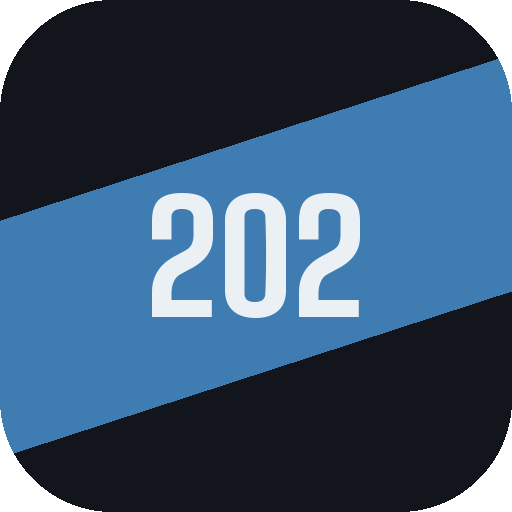
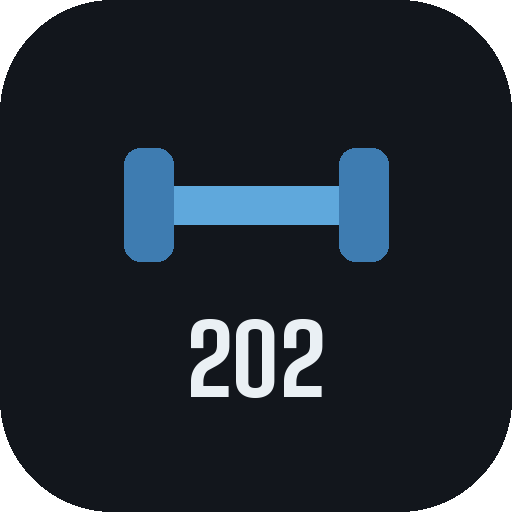
Add files via upload

diff --git a/service-worker.js b/service-worker.js
@@ -1,4 +1,4 @@
-const CACHE_NAME = "fitness202-v4";
+const CACHE_NAME = "fitness202-v5";
 const APP_SHELL = [
   "./",
   "./index.html",
@@ -35,6 +35,7 @@ self.addEventListener("fetch", (event) => {
     url.pathname.endsWith("index.html") ||
     url.pathname.endsWith("bundle.js") ||
     url.pathname.endsWith("styles.css") ||
+    url.pathname.endsWith("manifest.json") ||
     url.pathname.endsWith("/");
 
   if (isAppCode) {

diff --git a/styles.css b/styles.css
@@ -1,1 +1,1 @@
-*,:after,:before{--tw-border-spacing-x:0;--tw-border-spacing-y:0;--tw-translate-x:0;--tw-translate-y:0;--tw-rotate:0;--tw-skew-x:0;--tw-skew-y:0;--tw-scale-x:1;--tw-scale-y:1;--tw-pan-x: ;--tw-pan-y: ;--tw-pinch-zoom: ;--tw-scroll-snap-strictness:proximity;--tw-gradient-from-position: ;--tw-gradient-via-position: ;--tw-gradient-to-position: ;--tw-ordinal: ;--tw-slashed-zero: ;--tw-numeric-figure: ;--tw-numeric-spacing: ;--tw-numeric-fraction: ;--tw-ring-inset: ;--tw-ring-offset-width:0px;--tw-ring-offset-color:#fff;--tw-ring-color:rgba(59,130,246,.5);--tw-ring-offset-shadow:0 0 #0000;--tw-ring-shadow:0 0 #0000;--tw-shadow:0 0 #0000;--tw-shadow-colored:0 0 #0000;--tw-blur: ;--tw-brightness: ;--tw-contrast: ;--tw-grayscale: ;--tw-hue-rotate: ;--tw-invert: ;--tw-saturate: ;--tw-sepia: ;--tw-drop-shadow: ;--tw-backdrop-blur: ;--tw-backdrop-brightness: ;--tw-backdrop-contrast: ;--tw-backdrop-grayscale: ;--tw-backdrop-hue-rotate: ;--tw-backdrop-invert: ;--tw-backdrop-opacity: ;--tw-backdrop-saturate: ;--tw-backdrop-sepia: ;--tw-contain-size: ;--tw-contain-layout: ;--tw-contain-paint: ;--tw-contain-style: }::backdrop{--tw-border-spacing-x:0;--tw-border-spacing-y:0;--tw-translate-x:0;--tw-translate-y:0;--tw-rotate:0;--tw-skew-x:0;--tw-skew-y:0;--tw-scale-x:1;--tw-scale-y:1;--tw-pan-x: ;--tw-pan-y: ;--tw-pinch-zoom: ;--tw-scroll-snap-strictness:proximity;--tw-gradient-from-position: ;--tw-gradient-via-position: ;--tw-gradient-to-position: ;--tw-ordinal: ;--tw-slashed-zero: ;--tw-numeric-figure: ;--tw-numeric-spacing: ;--tw-numeric-fraction: ;--tw-ring-inset: ;--tw-ring-offset-width:0px;--tw-ring-offset-color:#fff;--tw-ring-color:rgba(59,130,246,.5);--tw-ring-offset-shadow:0 0 #0000;--tw-ring-shadow:0 0 #0000;--tw-shadow:0 0 #0000;--tw-shadow-colored:0 0 #0000;--tw-blur: ;--tw-brightness: ;--tw-contrast: ;--tw-grayscale: ;--tw-hue-rotate: ;--tw-invert: ;--tw-saturate: ;--tw-sepia: ;--tw-drop-shadow: ;--tw-backdrop-blur: ;--tw-backdrop-brightness: ;--tw-backdrop-contrast: ;--tw-backdrop-grayscale: ;--tw-backdrop-hue-rotate: ;--tw-backdrop-invert: ;--tw-backdrop-opacity: ;--tw-backdrop-saturate: ;--tw-backdrop-sepia: ;--tw-contain-size: ;--tw-contain-layout: ;--tw-contain-paint: ;--tw-contain-style: }/*! tailwindcss v3.4.13 | MIT License | https://tailwindcss.com*/*,:after,:before{box-sizing:border-box;border:0 solid #e5e7eb}:after,:before{--tw-content:""}:host,html{line-height:1.5;-webkit-text-size-adjust:100%;-moz-tab-size:4;-o-tab-size:4;tab-size:4;font-family:ui-sans-serif,system-ui,sans-serif,Apple Color Emoji,Segoe UI Emoji,Segoe UI Symbol,Noto Color Emoji;font-feature-settings:normal;font-variation-settings:normal;-webkit-tap-highlight-color:transparent}body{margin:0;line-height:inherit}hr{height:0;color:inherit;border-top-width:1px}abbr:where([title]){-webkit-text-decoration:underline dotted;text-decoration:underline dotted}h1,h2,h3,h4,h5,h6{font-size:inherit;font-weight:inherit}a{color:inherit;text-decoration:inherit}b,strong{font-weight:bolder}code,kbd,pre,samp{font-family:ui-monospace,SFMono-Regular,Menlo,Monaco,Consolas,Liberation Mono,Courier New,monospace;font-feature-settings:normal;font-variation-settings:normal;font-size:1em}small{font-size:80%}sub,sup{font-size:75%;line-height:0;position:relative;vertical-align:baseline}sub{bottom:-.25em}sup{top:-.5em}table{text-indent:0;border-color:inherit;border-collapse:collapse}button,input,optgroup,select,textarea{font-family:inherit;font-feature-settings:inherit;font-variation-settings:inherit;font-size:100%;font-weight:inherit;line-height:inherit;letter-spacing:inherit;color:inherit;margin:0;padding:0}button,select{text-transform:none}button,input:where([type=button]),input:where([type=reset]),input:where([type=submit]){-webkit-appearance:button;background-color:transparent;background-image:none}:-moz-focusring{outline:auto}:-moz-ui-invalid{box-shadow:none}progress{vertical-align:baseline}::-webkit-inner-spin-button,::-webkit-outer-spin-button{height:auto}[type=search]{-webkit-appearance:textfield;outline-offset:-2px}::-webkit-search-decoration{-webkit-appearance:none}::-webkit-file-upload-button{-webkit-appearance:button;font:inherit}summary{display:list-item}blockquote,dd,dl,figure,h1,h2,h3,h4,h5,h6,hr,p,pre{margin:0}fieldset{margin:0}fieldset,legend{padding:0}menu,ol,ul{list-style:none;margin:0;padding:0}dialog{padding:0}textarea{resize:vertical}input::-moz-placeholder,textarea::-moz-placeholder{opacity:1;color:#9ca3af}input::placeholder,textarea::placeholder{opacity:1;color:#9ca3af}[role=button],button{cursor:pointer}:disabled{cursor:default}audio,canvas,embed,iframe,img,object,svg,video{display:block;vertical-align:middle}img,video{max-width:100%;height:auto}[hidden]{display:none}*{-webkit-tap-highlight-color:transparent;box-sizing:border-box}button{cursor:pointer;font-family:inherit}button:not(:disabled){transition:transform .15s cubic-bezier(.34,1.56,.64,1),opacity .15s ease,background-color .2s ease,border-color .2s ease}button:not(:disabled):active{transform:scale(.96)}button:disabled{opacity:.5}input,select{transition:border-color .2s ease,box-shadow .2s ease}input:focus,select:focus{outline:none;box-shadow:0 0 0 2px rgba(95,168,220,.35)}::-webkit-scrollbar{width:0;height:0}.fixed{position:fixed}.absolute{position:absolute}.relative{position:relative}.sticky{position:sticky}.inset-0{inset:0}.-left-3{left:-.75rem}.-top-2{top:-.5rem}.bottom-0{bottom:0}.left-0{left:0}.left-1\/2{left:50%}.right-0{right:0}.top-0{top:0}.top-0\.5{top:.125rem}.z-10{z-index:10}.z-20{z-index:20}.z-30{z-index:30}.z-40{z-index:40}.z-50{z-index:50}.mx-auto{margin-left:auto;margin-right:auto}.mb-0\.5{margin-bottom:.125rem}.mb-1{margin-bottom:.25rem}.mb-1\.5{margin-bottom:.375rem}.mb-2{margin-bottom:.5rem}.mb-2\.5{margin-bottom:.625rem}.mb-3{margin-bottom:.75rem}.mb-4{margin-bottom:1rem}.mb-5{margin-bottom:1.25rem}.mb-6{margin-bottom:1.5rem}.mb-8{margin-bottom:2rem}.ml-auto{margin-left:auto}.mt-0\.5{margin-top:.125rem}.mt-1{margin-top:.25rem}.mt-1\.5{margin-top:.375rem}.mt-2{margin-top:.5rem}.mt-3{margin-top:.75rem}.mt-4{margin-top:1rem}.mt-6{margin-top:1.5rem}.block{display:block}.inline-block{display:inline-block}.flex{display:flex}.inline-flex{display:inline-flex}.grid{display:grid}.hidden{display:none}.aspect-square{aspect-ratio:1/1}.h-0\.5{height:.125rem}.h-1{height:.25rem}.h-2{height:.5rem}.h-5{height:1.25rem}.h-6{height:1.5rem}.h-9{height:2.25rem}.h-full{height:100%}.min-h-screen{min-height:100vh}.w-1{width:.25rem}.w-10{width:2.5rem}.w-12{width:3rem}.w-14{width:3.5rem}.w-16{width:4rem}.w-20{width:5rem}.w-5{width:1.25rem}.w-6{width:1.5rem}.w-9{width:2.25rem}.w-full{width:100%}.w-px{width:1px}.min-w-0{min-width:0}.max-w-\[80\%\]{max-width:80%}.max-w-md{max-width:28rem}.max-w-xs{max-width:20rem}.flex-1{flex:1 1 0%}.flex-shrink-0{flex-shrink:0}.transform{transform:translate(var(--tw-translate-x),var(--tw-translate-y)) rotate(var(--tw-rotate)) skewX(var(--tw-skew-x)) skewY(var(--tw-skew-y)) scaleX(var(--tw-scale-x)) scaleY(var(--tw-scale-y))}.grid-cols-2{grid-template-columns:repeat(2,minmax(0,1fr))}.grid-cols-3{grid-template-columns:repeat(3,minmax(0,1fr))}.grid-cols-4{grid-template-columns:repeat(4,minmax(0,1fr))}.grid-cols-5{grid-template-columns:repeat(5,minmax(0,1fr))}.grid-cols-7{grid-template-columns:repeat(7,minmax(0,1fr))}.flex-col{flex-direction:column}.flex-wrap{flex-wrap:wrap}.items-end{align-items:flex-end}.items-center{align-items:center}.items-baseline{align-items:baseline}.justify-start{justify-content:flex-start}.justify-end{justify-content:flex-end}.justify-center{justify-content:center}.justify-between{justify-content:space-between}.gap-1{gap:.25rem}.gap-1\.5{gap:.375rem}.gap-2{gap:.5rem}.gap-3{gap:.75rem}.space-y-1>:not([hidden])~:not([hidden]){--tw-space-y-reverse:0;margin-top:calc(.25rem*(1 - var(--tw-space-y-reverse)));margin-bottom:calc(.25rem*var(--tw-space-y-reverse))}.space-y-1\.5>:not([hidden])~:not([hidden]){--tw-space-y-reverse:0;margin-top:calc(.375rem*(1 - var(--tw-space-y-reverse)));margin-bottom:calc(.375rem*var(--tw-space-y-reverse))}.space-y-2>:not([hidden])~:not([hidden]){--tw-space-y-reverse:0;margin-top:calc(.5rem*(1 - var(--tw-space-y-reverse)));margin-bottom:calc(.5rem*var(--tw-space-y-reverse))}.overflow-hidden{overflow:hidden}.overflow-y-auto{overflow-y:auto}.rounded{border-radius:.25rem}.rounded-full{border-radius:9999px}.rounded-lg{border-radius:.5rem}.rounded-md{border-radius:.375rem}.border{border-width:1px}.border-2{border-width:2px}.border-b{border-bottom-width:1px}.border-dashed{border-style:dashed}.p-1{padding:.25rem}.p-2{padding:.5rem}.p-2\.5{padding:.625rem}.p-3{padding:.75rem}.p-4{padding:1rem}.p-5{padding:1.25rem}.p-6{padding:1.5rem}.px-1{padding-left:.25rem;padding-right:.25rem}.px-11{padding-left:2.75rem;padding-right:2.75rem}.px-2{padding-left:.5rem;padding-right:.5rem}.px-2\.5{padding-left:.625rem;padding-right:.625rem}.px-3{padding-left:.75rem;padding-right:.75rem}.px-4{padding-left:1rem;padding-right:1rem}.px-5{padding-left:1.25rem;padding-right:1.25rem}.py-0\.5{padding-top:.125rem;padding-bottom:.125rem}.py-1{padding-top:.25rem;padding-bottom:.25rem}.py-1\.5{padding-top:.375rem;padding-bottom:.375rem}.py-10{padding-top:2.5rem;padding-bottom:2.5rem}.py-2{padding-top:.5rem;padding-bottom:.5rem}.py-2\.5{padding-top:.625rem;padding-bottom:.625rem}.py-3{padding-top:.75rem;padding-bottom:.75rem}.py-3\.5{padding-top:.875rem;padding-bottom:.875rem}.py-6{padding-top:1.5rem;padding-bottom:1.5rem}.py-8{padding-top:2rem;padding-bottom:2rem}.pb-10{padding-bottom:2.5rem}.pb-24{padding-bottom:6rem}.pb-3{padding-bottom:.75rem}.pb-4{padding-bottom:1rem}.pr-1{padding-right:.25rem}.pt-3{padding-top:.75rem}.pt-4{padding-top:1rem}.pt-5{padding-top:1.25rem}.text-left{text-align:left}.text-center{text-align:center}.font-mono{font-family:ui-monospace,SFMono-Regular,Menlo,Monaco,Consolas,Liberation Mono,Courier New,monospace}.text-2xl{font-size:1.5rem;line-height:2rem}.text-3xl{font-size:1.875rem;line-height:2.25rem}.text-4xl{font-size:2.25rem;line-height:2.5rem}.text-6xl{font-size:3.75rem;line-height:1}.text-7xl{font-size:4.5rem;line-height:1}.text-\[10px\]{font-size:10px}.text-\[11px\]{font-size:11px}.text-\[8px\]{font-size:8px}.text-\[9px\]{font-size:9px}.text-lg{font-size:1.125rem;line-height:1.75rem}.text-sm{font-size:.875rem;line-height:1.25rem}.text-xl{font-size:1.25rem;line-height:1.75rem}.text-xs{font-size:.75rem;line-height:1rem}.font-semibold{font-weight:600}.uppercase{text-transform:uppercase}.leading-tight{line-height:1.25}.tracking-\[0\.12em\]{letter-spacing:.12em}.tracking-\[0\.15em\]{letter-spacing:.15em}.tracking-\[0\.1em\]{letter-spacing:.1em}.tracking-wide{letter-spacing:.025em}.tracking-widest{letter-spacing:.1em}.line-through{text-decoration-line:line-through}.opacity-90{opacity:.9}.shadow-lg{--tw-shadow:0 10px 15px -3px rgba(0,0,0,.1),0 4px 6px -4px rgba(0,0,0,.1);--tw-shadow-colored:0 10px 15px -3px var(--tw-shadow-color),0 4px 6px -4px var(--tw-shadow-color);box-shadow:var(--tw-ring-offset-shadow,0 0 #0000),var(--tw-ring-shadow,0 0 #0000),var(--tw-shadow)}.outline-none{outline:2px solid transparent;outline-offset:2px}.filter{filter:var(--tw-blur) var(--tw-brightness) var(--tw-contrast) var(--tw-grayscale) var(--tw-hue-rotate) var(--tw-invert) var(--tw-saturate) var(--tw-sepia) var(--tw-drop-shadow)}.transition-all{transition-property:all;transition-timing-function:cubic-bezier(.4,0,.2,1);transition-duration:.15s}.ease-in-out{transition-timing-function:cubic-bezier(.4,0,.2,1)}@keyframes screenIn{0%{opacity:0;transform:translateY(8px)}to{opacity:1;transform:translateY(0)}}.screen-enter{animation:screenIn .32s cubic-bezier(.16,1,.3,1)}@keyframes toastIn{0%{opacity:0;transform:translate(-50%,16px) scale(.96)}to{opacity:1;transform:translate(-50%) scale(1)}}.toast-enter{animation:toastIn .3s cubic-bezier(.34,1.56,.64,1)}@keyframes pulseTape{0%,to{opacity:.45;transform:scaleX(.85)}50%{opacity:1;transform:scaleX(1)}}.pulse-tape{animation:pulseTape 1.3s ease-in-out infinite}@keyframes spin{to{transform:rotate(1turn)}}.spin-slow{animation:spin 1.1s linear infinite}@keyframes popIn{0%{opacity:0;transform:scale(.8)}to{opacity:1;transform:scale(1)}}.pop-in{animation:popIn .35s cubic-bezier(.34,1.56,.64,1)}@keyframes shimmer{0%{background-position:-300px 0}to{background-position:300px 0}}.skeleton{background:linear-gradient(90deg,#1b222a 25%,#252f39 37%,#1b222a 63%);background-size:400px 100%;animation:shimmer 1.4s ease-in-out infinite}.collapse-grid{display:grid;grid-template-rows:0fr;transition:grid-template-rows .32s cubic-bezier(.16,1,.3,1)}.collapse-grid.is-open{grid-template-rows:1fr}.collapse-inner{overflow:hidden;min-height:0}.chevron-rotate{transition:transform .28s cubic-bezier(.16,1,.3,1);display:inline-flex}.chevron-rotate.is-open{transform:rotate(180deg)}.nav-indicator{transition:left .32s cubic-bezier(.34,1.56,.64,1)}.gauge-fill{transition:width .6s cubic-bezier(.16,1,.3,1)}.press-card{transition:transform .15s ease,border-color .2s ease}.press-card:active{transform:scale(.98)}input[type=range]{-webkit-appearance:none;-moz-appearance:none;appearance:none;width:100%;height:8px;border-radius:999px;background:#252f39;outline:none}input[type=range]::-webkit-slider-thumb{-webkit-appearance:none;width:34px;height:34px;border-radius:50%;background:var(--thumb-color,#e08a3c);border:3px solid #12161c;box-shadow:0 3px 10px rgba(0,0,0,.5);cursor:pointer}input[type=range]::-moz-range-thumb{width:34px;height:34px;border-radius:50%;background:var(--thumb-color,#e08a3c);border:3px solid #12161c;box-shadow:0 3px 10px rgba(0,0,0,.5);cursor:pointer}input[type=range]::-moz-range-track{background:#252f39;height:8px;border-radius:999px}.photo-tile{aspect-ratio:3/4;-o-object-fit:cover;object-fit:cover}
+*,:after,:before{--tw-border-spacing-x:0;--tw-border-spacing-y:0;--tw-translate-x:0;--tw-translate-y:0;--tw-rotate:0;--tw-skew-x:0;--tw-skew-y:0;--tw-scale-x:1;--tw-scale-y:1;--tw-pan-x: ;--tw-pan-y: ;--tw-pinch-zoom: ;--tw-scroll-snap-strictness:proximity;--tw-gradient-from-position: ;--tw-gradient-via-position: ;--tw-gradient-to-position: ;--tw-ordinal: ;--tw-slashed-zero: ;--tw-numeric-figure: ;--tw-numeric-spacing: ;--tw-numeric-fraction: ;--tw-ring-inset: ;--tw-ring-offset-width:0px;--tw-ring-offset-color:#fff;--tw-ring-color:rgba(59,130,246,.5);--tw-ring-offset-shadow:0 0 #0000;--tw-ring-shadow:0 0 #0000;--tw-shadow:0 0 #0000;--tw-shadow-colored:0 0 #0000;--tw-blur: ;--tw-brightness: ;--tw-contrast: ;--tw-grayscale: ;--tw-hue-rotate: ;--tw-invert: ;--tw-saturate: ;--tw-sepia: ;--tw-drop-shadow: ;--tw-backdrop-blur: ;--tw-backdrop-brightness: ;--tw-backdrop-contrast: ;--tw-backdrop-grayscale: ;--tw-backdrop-hue-rotate: ;--tw-backdrop-invert: ;--tw-backdrop-opacity: ;--tw-backdrop-saturate: ;--tw-backdrop-sepia: ;--tw-contain-size: ;--tw-contain-layout: ;--tw-contain-paint: ;--tw-contain-style: }::backdrop{--tw-border-spacing-x:0;--tw-border-spacing-y:0;--tw-translate-x:0;--tw-translate-y:0;--tw-rotate:0;--tw-skew-x:0;--tw-skew-y:0;--tw-scale-x:1;--tw-scale-y:1;--tw-pan-x: ;--tw-pan-y: ;--tw-pinch-zoom: ;--tw-scroll-snap-strictness:proximity;--tw-gradient-from-position: ;--tw-gradient-via-position: ;--tw-gradient-to-position: ;--tw-ordinal: ;--tw-slashed-zero: ;--tw-numeric-figure: ;--tw-numeric-spacing: ;--tw-numeric-fraction: ;--tw-ring-inset: ;--tw-ring-offset-width:0px;--tw-ring-offset-color:#fff;--tw-ring-color:rgba(59,130,246,.5);--tw-ring-offset-shadow:0 0 #0000;--tw-ring-shadow:0 0 #0000;--tw-shadow:0 0 #0000;--tw-shadow-colored:0 0 #0000;--tw-blur: ;--tw-brightness: ;--tw-contrast: ;--tw-grayscale: ;--tw-hue-rotate: ;--tw-invert: ;--tw-saturate: ;--tw-sepia: ;--tw-drop-shadow: ;--tw-backdrop-blur: ;--tw-backdrop-brightness: ;--tw-backdrop-contrast: ;--tw-backdrop-grayscale: ;--tw-backdrop-hue-rotate: ;--tw-backdrop-invert: ;--tw-backdrop-opacity: ;--tw-backdrop-saturate: ;--tw-backdrop-sepia: ;--tw-contain-size: ;--tw-contain-layout: ;--tw-contain-paint: ;--tw-contain-style: }/*! tailwindcss v3.4.13 | MIT License | https://tailwindcss.com*/*,:after,:before{box-sizing:border-box;border:0 solid #e5e7eb}:after,:before{--tw-content:""}:host,html{line-height:1.5;-webkit-text-size-adjust:100%;-moz-tab-size:4;-o-tab-size:4;tab-size:4;font-family:ui-sans-serif,system-ui,sans-serif,Apple Color Emoji,Segoe UI Emoji,Segoe UI Symbol,Noto Color Emoji;font-feature-settings:normal;font-variation-settings:normal;-webkit-tap-highlight-color:transparent}body{margin:0;line-height:inherit}hr{height:0;color:inherit;border-top-width:1px}abbr:where([title]){-webkit-text-decoration:underline dotted;text-decoration:underline dotted}h1,h2,h3,h4,h5,h6{font-size:inherit;font-weight:inherit}a{color:inherit;text-decoration:inherit}b,strong{font-weight:bolder}code,kbd,pre,samp{font-family:ui-monospace,SFMono-Regular,Menlo,Monaco,Consolas,Liberation Mono,Courier New,monospace;font-feature-settings:normal;font-variation-settings:normal;font-size:1em}small{font-size:80%}sub,sup{font-size:75%;line-height:0;position:relative;vertical-align:baseline}sub{bottom:-.25em}sup{top:-.5em}table{text-indent:0;border-color:inherit;border-collapse:collapse}button,input,optgroup,select,textarea{font-family:inherit;font-feature-settings:inherit;font-variation-settings:inherit;font-size:100%;font-weight:inherit;line-height:inherit;letter-spacing:inherit;color:inherit;margin:0;padding:0}button,select{text-transform:none}button,input:where([type=button]),input:where([type=reset]),input:where([type=submit]){-webkit-appearance:button;background-color:transparent;background-image:none}:-moz-focusring{outline:auto}:-moz-ui-invalid{box-shadow:none}progress{vertical-align:baseline}::-webkit-inner-spin-button,::-webkit-outer-spin-button{height:auto}[type=search]{-webkit-appearance:textfield;outline-offset:-2px}::-webkit-search-decoration{-webkit-appearance:none}::-webkit-file-upload-button{-webkit-appearance:button;font:inherit}summary{display:list-item}blockquote,dd,dl,figure,h1,h2,h3,h4,h5,h6,hr,p,pre{margin:0}fieldset{margin:0}fieldset,legend{padding:0}menu,ol,ul{list-style:none;margin:0;padding:0}dialog{padding:0}textarea{resize:vertical}input::-moz-placeholder,textarea::-moz-placeholder{opacity:1;color:#9ca3af}input::placeholder,textarea::placeholder{opacity:1;color:#9ca3af}[role=button],button{cursor:pointer}:disabled{cursor:default}audio,canvas,embed,iframe,img,object,svg,video{display:block;vertical-align:middle}img,video{max-width:100%;height:auto}[hidden]{display:none}*{-webkit-tap-highlight-color:transparent;box-sizing:border-box}button{cursor:pointer;font-family:inherit}button:not(:disabled){transition:transform .15s cubic-bezier(.34,1.56,.64,1),opacity .15s ease,background-color .2s ease,border-color .2s ease}button:not(:disabled):active{transform:scale(.96)}button:disabled{opacity:.5}input,select{transition:border-color .2s ease,box-shadow .2s ease}input:focus,select:focus{outline:none;box-shadow:0 0 0 2px rgba(95,168,220,.35)}::-webkit-scrollbar{width:0;height:0}.static{position:static}.fixed{position:fixed}.absolute{position:absolute}.relative{position:relative}.sticky{position:sticky}.inset-0{inset:0}.-left-3{left:-.75rem}.-top-2{top:-.5rem}.bottom-0{bottom:0}.left-0{left:0}.left-1\/2{left:50%}.right-0{right:0}.top-0{top:0}.top-0\.5{top:.125rem}.z-10{z-index:10}.z-20{z-index:20}.z-30{z-index:30}.z-40{z-index:40}.z-50{z-index:50}.mx-auto{margin-left:auto;margin-right:auto}.mb-0\.5{margin-bottom:.125rem}.mb-1{margin-bottom:.25rem}.mb-1\.5{margin-bottom:.375rem}.mb-2{margin-bottom:.5rem}.mb-2\.5{margin-bottom:.625rem}.mb-3{margin-bottom:.75rem}.mb-4{margin-bottom:1rem}.mb-5{margin-bottom:1.25rem}.mb-6{margin-bottom:1.5rem}.mb-8{margin-bottom:2rem}.ml-auto{margin-left:auto}.mt-0\.5{margin-top:.125rem}.mt-1{margin-top:.25rem}.mt-1\.5{margin-top:.375rem}.mt-2{margin-top:.5rem}.mt-3{margin-top:.75rem}.mt-4{margin-top:1rem}.mt-6{margin-top:1.5rem}.block{display:block}.inline-block{display:inline-block}.flex{display:flex}.inline-flex{display:inline-flex}.grid{display:grid}.hidden{display:none}.aspect-square{aspect-ratio:1/1}.h-0\.5{height:.125rem}.h-1{height:.25rem}.h-1\.5{height:.375rem}.h-2{height:.5rem}.h-5{height:1.25rem}.h-6{height:1.5rem}.h-9{height:2.25rem}.h-auto{height:auto}.h-full{height:100%}.min-h-screen{min-height:100vh}.w-1{width:.25rem}.w-1\.5{width:.375rem}.w-10{width:2.5rem}.w-11{width:2.75rem}.w-14{width:3.5rem}.w-16{width:4rem}.w-20{width:5rem}.w-5{width:1.25rem}.w-6{width:1.5rem}.w-9{width:2.25rem}.w-full{width:100%}.w-px{width:1px}.min-w-0{min-width:0}.max-w-\[80\%\]{max-width:80%}.max-w-md{max-width:28rem}.max-w-xs{max-width:20rem}.flex-1{flex:1 1 0%}.flex-shrink-0{flex-shrink:0}.transform{transform:translate(var(--tw-translate-x),var(--tw-translate-y)) rotate(var(--tw-rotate)) skewX(var(--tw-skew-x)) skewY(var(--tw-skew-y)) scaleX(var(--tw-scale-x)) scaleY(var(--tw-scale-y))}.grid-cols-2{grid-template-columns:repeat(2,minmax(0,1fr))}.grid-cols-3{grid-template-columns:repeat(3,minmax(0,1fr))}.grid-cols-4{grid-template-columns:repeat(4,minmax(0,1fr))}.grid-cols-5{grid-template-columns:repeat(5,minmax(0,1fr))}.grid-cols-7{grid-template-columns:repeat(7,minmax(0,1fr))}.flex-col{flex-direction:column}.flex-wrap{flex-wrap:wrap}.items-end{align-items:flex-end}.items-center{align-items:center}.items-baseline{align-items:baseline}.justify-start{justify-content:flex-start}.justify-end{justify-content:flex-end}.justify-center{justify-content:center}.justify-between{justify-content:space-between}.gap-0\.5{gap:.125rem}.gap-1{gap:.25rem}.gap-1\.5{gap:.375rem}.gap-2{gap:.5rem}.gap-2\.5{gap:.625rem}.gap-3{gap:.75rem}.space-y-1>:not([hidden])~:not([hidden]){--tw-space-y-reverse:0;margin-top:calc(.25rem*(1 - var(--tw-space-y-reverse)));margin-bottom:calc(.25rem*var(--tw-space-y-reverse))}.space-y-1\.5>:not([hidden])~:not([hidden]){--tw-space-y-reverse:0;margin-top:calc(.375rem*(1 - var(--tw-space-y-reverse)));margin-bottom:calc(.375rem*var(--tw-space-y-reverse))}.space-y-2>:not([hidden])~:not([hidden]){--tw-space-y-reverse:0;margin-top:calc(.5rem*(1 - var(--tw-space-y-reverse)));margin-bottom:calc(.5rem*var(--tw-space-y-reverse))}.overflow-hidden{overflow:hidden}.overflow-y-auto{overflow-y:auto}.rounded{border-radius:.25rem}.rounded-full{border-radius:9999px}.rounded-lg{border-radius:.5rem}.rounded-md{border-radius:.375rem}.border{border-width:1px}.border-2{border-width:2px}.border-b{border-bottom-width:1px}.border-dashed{border-style:dashed}.p-1{padding:.25rem}.p-2{padding:.5rem}.p-2\.5{padding:.625rem}.p-3{padding:.75rem}.p-4{padding:1rem}.p-5{padding:1.25rem}.p-6{padding:1.5rem}.px-1{padding-left:.25rem;padding-right:.25rem}.px-11{padding-left:2.75rem;padding-right:2.75rem}.px-2{padding-left:.5rem;padding-right:.5rem}.px-2\.5{padding-left:.625rem;padding-right:.625rem}.px-3{padding-left:.75rem;padding-right:.75rem}.px-4{padding-left:1rem;padding-right:1rem}.px-5{padding-left:1.25rem;padding-right:1.25rem}.py-0\.5{padding-top:.125rem;padding-bottom:.125rem}.py-1{padding-top:.25rem;padding-bottom:.25rem}.py-1\.5{padding-top:.375rem;padding-bottom:.375rem}.py-10{padding-top:2.5rem;padding-bottom:2.5rem}.py-2{padding-top:.5rem;padding-bottom:.5rem}.py-2\.5{padding-top:.625rem;padding-bottom:.625rem}.py-3{padding-top:.75rem;padding-bottom:.75rem}.py-3\.5{padding-top:.875rem;padding-bottom:.875rem}.py-6{padding-top:1.5rem;padding-bottom:1.5rem}.py-8{padding-top:2rem;padding-bottom:2rem}.pb-10{padding-bottom:2.5rem}.pb-24{padding-bottom:6rem}.pb-3{padding-bottom:.75rem}.pb-4{padding-bottom:1rem}.pr-1{padding-right:.25rem}.pt-3{padding-top:.75rem}.pt-4{padding-top:1rem}.pt-5{padding-top:1.25rem}.text-left{text-align:left}.text-center{text-align:center}.text-right{text-align:right}.font-mono{font-family:ui-monospace,SFMono-Regular,Menlo,Monaco,Consolas,Liberation Mono,Courier New,monospace}.text-2xl{font-size:1.5rem;line-height:2rem}.text-3xl{font-size:1.875rem;line-height:2.25rem}.text-4xl{font-size:2.25rem;line-height:2.5rem}.text-6xl{font-size:3.75rem;line-height:1}.text-7xl{font-size:4.5rem;line-height:1}.text-\[10px\]{font-size:10px}.text-\[11px\]{font-size:11px}.text-\[8px\]{font-size:8px}.text-\[9px\]{font-size:9px}.text-lg{font-size:1.125rem;line-height:1.75rem}.text-sm{font-size:.875rem;line-height:1.25rem}.text-xl{font-size:1.25rem;line-height:1.75rem}.text-xs{font-size:.75rem;line-height:1rem}.font-semibold{font-weight:600}.uppercase{text-transform:uppercase}.leading-tight{line-height:1.25}.tracking-\[0\.12em\]{letter-spacing:.12em}.tracking-\[0\.15em\]{letter-spacing:.15em}.tracking-\[0\.1em\]{letter-spacing:.1em}.tracking-wide{letter-spacing:.025em}.tracking-widest{letter-spacing:.1em}.line-through{text-decoration-line:line-through}.opacity-90{opacity:.9}.shadow-lg{--tw-shadow:0 10px 15px -3px rgba(0,0,0,.1),0 4px 6px -4px rgba(0,0,0,.1);--tw-shadow-colored:0 10px 15px -3px var(--tw-shadow-color),0 4px 6px -4px var(--tw-shadow-color);box-shadow:var(--tw-ring-offset-shadow,0 0 #0000),var(--tw-ring-shadow,0 0 #0000),var(--tw-shadow)}.outline-none{outline:2px solid transparent;outline-offset:2px}.filter{filter:var(--tw-blur) var(--tw-brightness) var(--tw-contrast) var(--tw-grayscale) var(--tw-hue-rotate) var(--tw-invert) var(--tw-saturate) var(--tw-sepia) var(--tw-drop-shadow)}.transition-all{transition-property:all;transition-timing-function:cubic-bezier(.4,0,.2,1);transition-duration:.15s}.ease-in-out{transition-timing-function:cubic-bezier(.4,0,.2,1)}@keyframes screenIn{0%{opacity:0;transform:translateY(8px)}to{opacity:1;transform:translateY(0)}}.screen-enter{animation:screenIn .32s cubic-bezier(.16,1,.3,1)}@keyframes toastIn{0%{opacity:0;transform:translate(-50%,16px) scale(.96)}to{opacity:1;transform:translate(-50%) scale(1)}}.toast-enter{animation:toastIn .3s cubic-bezier(.34,1.56,.64,1)}@keyframes pulseTape{0%,to{opacity:.45;transform:scaleX(.85)}50%{opacity:1;transform:scaleX(1)}}.pulse-tape{animation:pulseTape 1.3s ease-in-out infinite}@keyframes spin{to{transform:rotate(1turn)}}.spin-slow{animation:spin 1.1s linear infinite}@keyframes popIn{0%{opacity:0;transform:scale(.8)}to{opacity:1;transform:scale(1)}}.pop-in{animation:popIn .35s cubic-bezier(.34,1.56,.64,1)}@keyframes shimmer{0%{background-position:-300px 0}to{background-position:300px 0}}.skeleton{background:linear-gradient(90deg,#1b222a 25%,#252f39 37%,#1b222a 63%);background-size:400px 100%;animation:shimmer 1.4s ease-in-out infinite}.collapse-grid{display:grid;grid-template-rows:0fr;transition:grid-template-rows .32s cubic-bezier(.16,1,.3,1)}.collapse-grid.is-open{grid-template-rows:1fr}.collapse-inner{overflow:hidden;min-height:0}.chevron-rotate{transition:transform .28s cubic-bezier(.16,1,.3,1);display:inline-flex}.chevron-rotate.is-open{transform:rotate(180deg)}.nav-indicator{transition:left .32s cubic-bezier(.34,1.56,.64,1)}.gauge-fill{transition:width .6s cubic-bezier(.16,1,.3,1)}.press-card{transition:transform .15s ease,border-color .2s ease}.press-card:active{transform:scale(.98)}input[type=range]{-webkit-appearance:none;-moz-appearance:none;appearance:none;width:100%;height:8px;border-radius:999px;background:#252f39;outline:none}input[type=range]::-webkit-slider-thumb{-webkit-appearance:none;width:34px;height:34px;border-radius:50%;background:var(--thumb-color,#e08a3c);border:3px solid #12161c;box-shadow:0 3px 10px rgba(0,0,0,.5);cursor:pointer}input[type=range]::-moz-range-thumb{width:34px;height:34px;border-radius:50%;background:var(--thumb-color,#e08a3c);border:3px solid #12161c;box-shadow:0 3px 10px rgba(0,0,0,.5);cursor:pointer}input[type=range]::-moz-range-track{background:#252f39;height:8px;border-radius:999px}.photo-tile{aspect-ratio:3/4;-o-object-fit:cover;object-fit:cover}